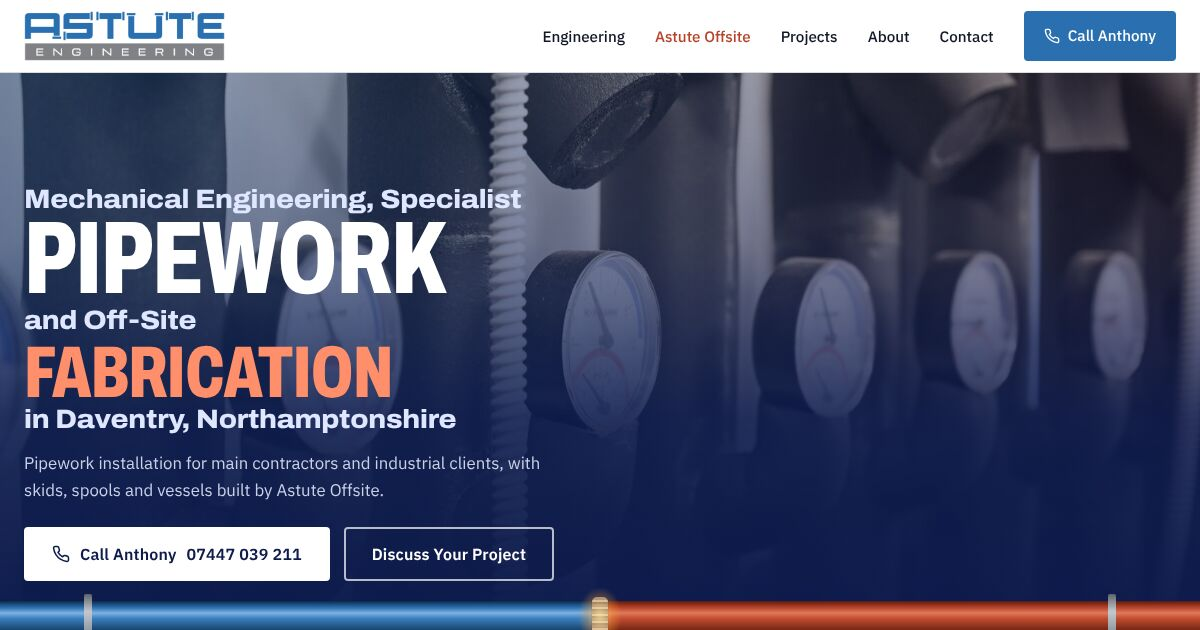
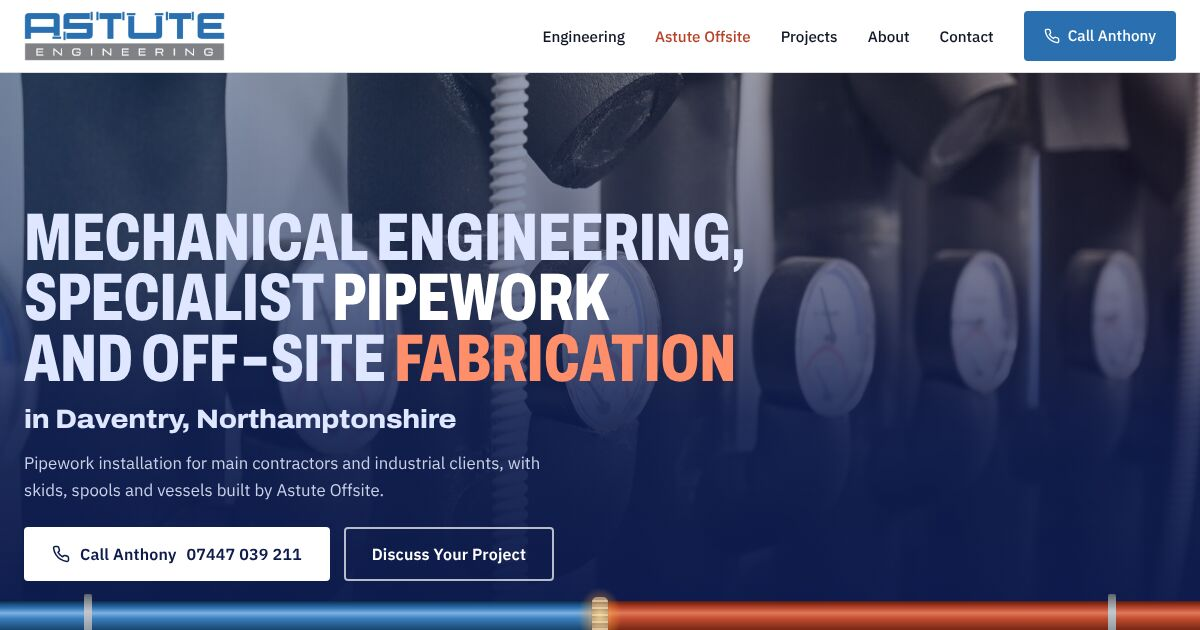
Astute Engineering B: hero H1 set at one size above the location line

Changed region(s): [[0.0, 0.3016, 0.6167, 0.6333]]

diff --git a/astute-engineering-b/index.html b/astute-engineering-b/index.html
@@ -282,9 +282,10 @@ footer a:hover{color:#fff}
 .hb-h1{color:#fff;font-weight:800;line-height:.92;letter-spacing:-.02em}
 .hb-h1 span{display:block;animation:fadeUp .8s both}
 .hb-h1 .sm{font-stretch:110%;font-size:clamp(1.15rem,2.2vw,1.9rem);letter-spacing:-.01em;line-height:1.15;color:#dfe6ff}
-.hb-h1 .xl{font-stretch:68%;text-transform:uppercase;font-size:clamp(5rem,20.5vw,11.5rem);line-height:.86;letter-spacing:-.01em;color:#fff;will-change:transform}
-.hb-h1 .xl.off{color:#ff8e6b;font-size:clamp(3.6rem,14.4vw,9.4rem)}
-.hb-h1 .xl.off,.hb-h1 .r3{margin-top:.08em}
+.hb-h1 .ln{font-stretch:68%;text-transform:uppercase;font-size:clamp(3rem,13.4vw,6.6rem);line-height:.9;letter-spacing:-.005em;color:#dfe6ff}
+.hb-h1 .mv{display:inline-block;font-weight:800;will-change:transform}
+.hb-h1 .mv.w{color:#fff}.hb-h1 .mv.o{color:#ff8e6b}
+.hb-h1 .r5{margin-top:.6em}
 .r1{animation-delay:.35s!important}.r2{animation-delay:.5s!important}.r3{animation-delay:.65s!important}.r4{animation-delay:.8s!important}.r5{animation-delay:.95s!important}
 .hb-lede{margin-top:22px;color:#c8d1e6;font-size:1.05rem;max-width:520px;animation:fadeUp .8s 1.05s both}
 .hb-cta{margin-top:26px;animation:fadeUp .8s 1.15s both}
@@ -308,7 +309,7 @@ footer a:hover{color:#fff}
 .benefit.lit h3 svg{box-shadow:0 0 0 6px #fff,0 0 0 9px var(--oxide);transform:scale(1.08)}
 @media (max-width:880px){
   .hb{min-height:calc(100svh - 64px)}
-  .hb-in{padding-top:84px;padding-bottom:56px}
+  .hb-in{padding-top:56px;padding-bottom:50px}
   .hb-lede{font-size:.98rem;margin-top:16px}
   .hb-cta{flex-direction:column}
   .hb-cta .btn{width:100%}
@@ -316,8 +317,8 @@ footer a:hover{color:#fff}
   .tm{margin:0 0 26px}
   .tm svg{height:120px}
 }
-@media (min-width:881px) and (max-height:780px){.hb-in{padding-top:70px;padding-bottom:50px}.hb-h1 .xl{font-size:clamp(4rem,8.6vw,7.4rem)}.hb-h1 .xl.off{font-size:clamp(3rem,6.1vw,5.3rem)}.hb-lede{margin-top:14px}.hb-cta{margin-top:18px}}
-@media (prefers-reduced-motion:reduce){.tm-bead{stroke-dashoffset:0}.tm-cool{opacity:1}.hb-ph,.hb-h1 .xl{transform:none!important}}
+@media (min-width:881px) and (max-height:780px){.hb-in{padding-top:70px;padding-bottom:50px}.hb-h1 .ln{font-size:clamp(3rem,5.6vw,5rem)}.hb-lede{margin-top:14px}.hb-cta{margin-top:18px}}
+@media (prefers-reduced-motion:reduce){.tm-bead{stroke-dashoffset:0}.tm-cool{opacity:1}.hb-ph,.hb-h1 .mv{transform:none!important}}
 
 /* responsive */
 @media (min-width:881px) and (max-height:780px){.hero h1{font-size:clamp(2.2rem,2.9vw,3rem)}.lede{margin-top:16px;font-size:1rem}.hero-cta{margin-top:22px}}
@@ -405,10 +406,9 @@ footer a:hover{color:#fff}
   <div class="hb-wash" aria-hidden="true"></div>
   <div class="hb-in wrap">
     <h1 class="hb-h1">
-      <span class="sm r1">Mechanical Engineering, Specialist</span>
-      <span class="xl r2" data-speed="-0.22">Pipework</span>
-      <span class="sm r3">and Off&#8209;Site</span>
-      <span class="xl off r4" data-speed="0.12">Fabrication</span>
+      <span class="ln r1">Mechanical Engineering,</span>
+      <span class="ln r2">Specialist <b class="mv w" data-speed="-0.16">Pipework</b></span>
+      <span class="ln r3">and Off&#8209;Site <b class="mv o" data-speed="0.1">Fabrication</b></span>
       <span class="sm r5">in Daventry, Northamptonshire</span>
     </h1>
     <p class="hb-lede">Pipework installation for main contractors and industrial clients, with skids, spools and vessels built by Astute Offsite.</p>
@@ -602,7 +602,7 @@ document.documentElement.classList.add('js');
 
 
   // parallax hero
-  var hb=document.getElementById('hero'),ph=document.querySelector('.hb-ph'),xls=[].slice.call(document.querySelectorAll('.hb-h1 .xl'));
+  var hb=document.getElementById('hero'),ph=document.querySelector('.hb-ph'),xls=[].slice.call(document.querySelectorAll('.hb-h1 .mv'));
   var rm=matchMedia('(prefers-reduced-motion: reduce)').matches,tick=false;
   function para(){tick=false;var y=Math.min(scrollY,hb.offsetHeight*1.2);ph.style.transform='translate3d(0,'+(y*0.38)+'px,0)';
     xls.forEach(function(el){el.style.transform='translate3d('+(y*parseFloat(el.dataset.speed))+'px,'+(y*-0.12)+'px,0)';});}
